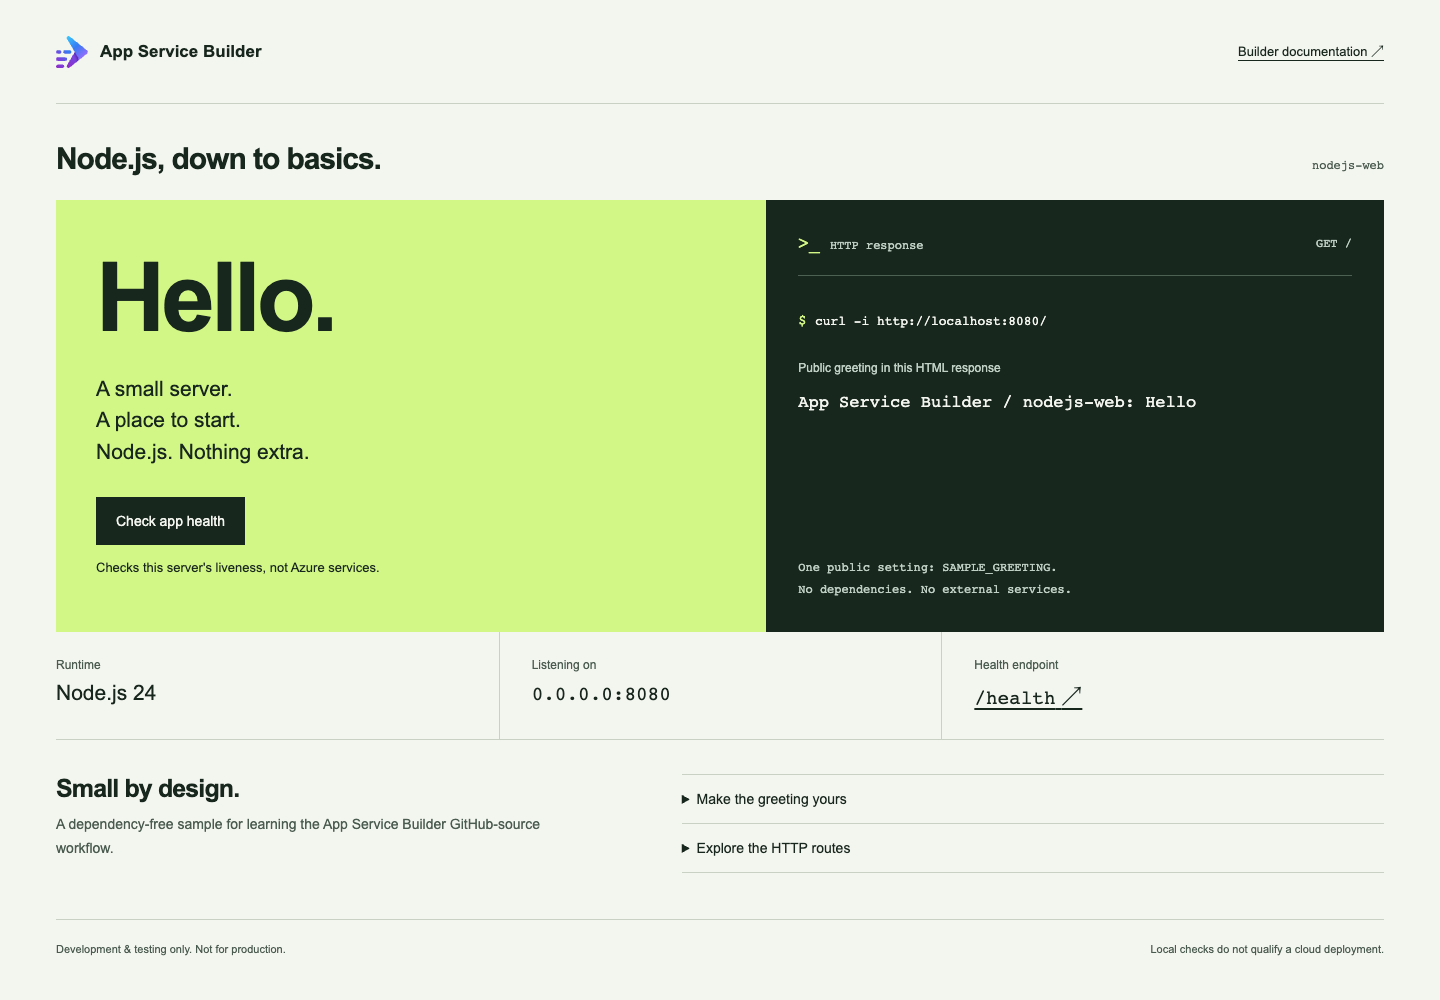
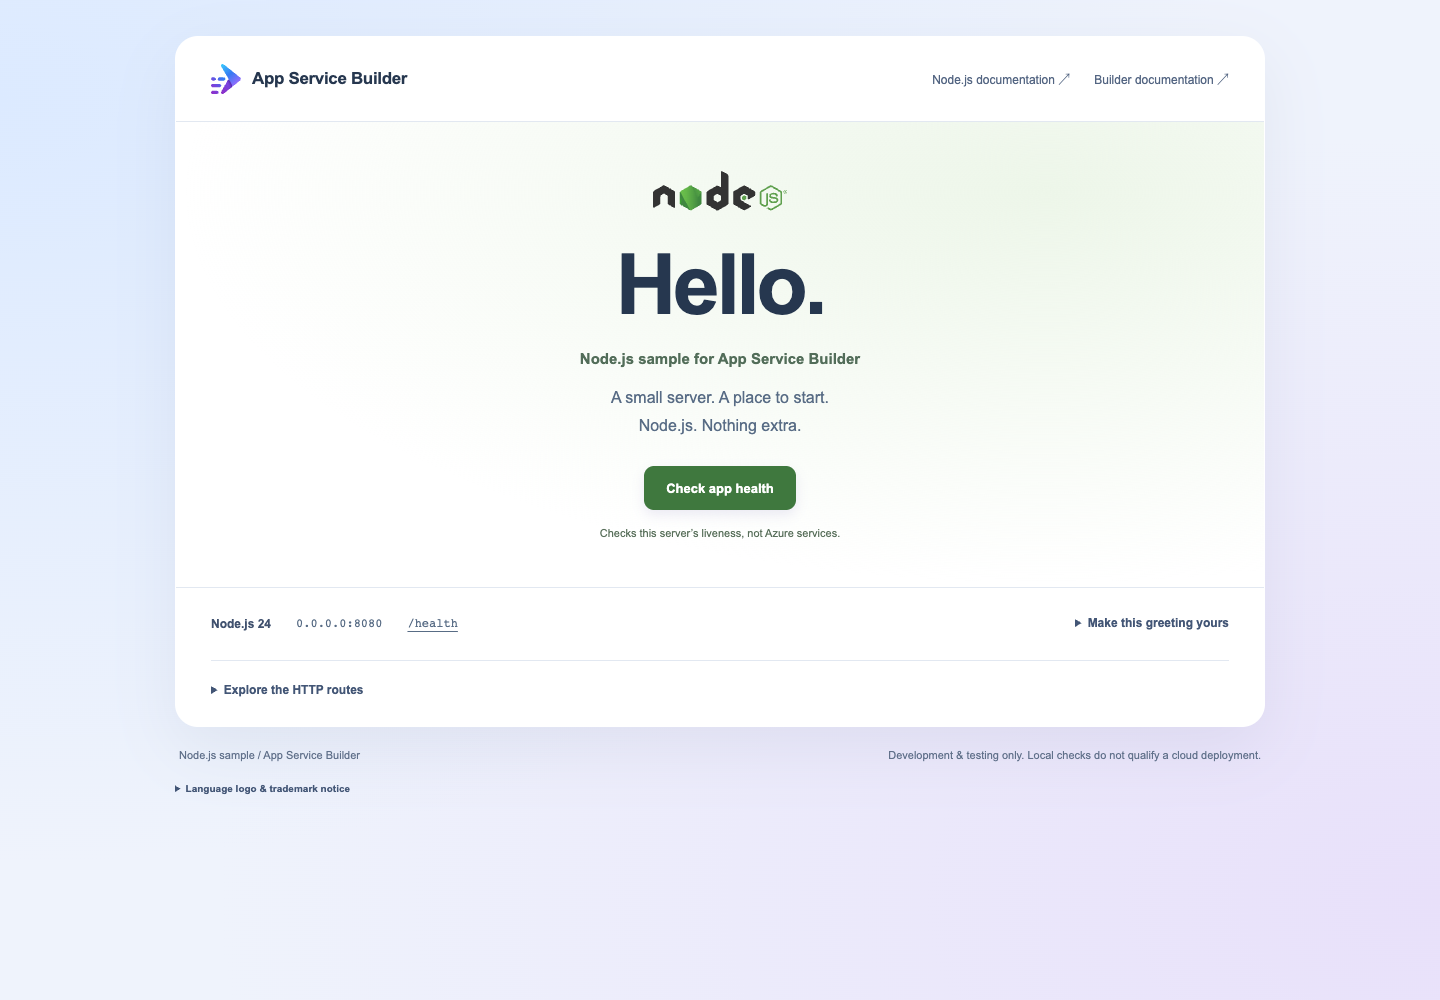
Refresh the language-specific Builder sample UI

diff --git a/README.md b/README.md
@@ -15,7 +15,7 @@ for your preview access; this sample does not promise availability in any region
 
 The screenshot shows the visual showcase served directly at `/`.
 
-![Node.js root page with a lime greeting panel, HTTP response specimen, and in-page health check](docs/images/sample.png)
+![Node.js root greeting with the official language logo, Builder context and inline health check](docs/images/sample.png)
 
 Real local rendering in Microsoft Edge, not evidence of an Azure deployment.
 **Check app health** shows `/health` status on the page; the machine-readable
@@ -62,10 +62,11 @@ curl -i http://localhost:8080/not-found
 ```
 
 Open `http://localhost:8080/` in a browser for the visual Node.js showcase.
-It displays the same public greeting with a responsive ink-and-lime layout,
+It displays the same public greeting with a responsive soft-green layout,
 runtime details, real endpoint links, and keyboard-accessible expandable
-instructions. It uses inline CSS, system fonts, and no JavaScript or external
-assets. The root serves HTML directly, without a redirect or content negotiation.
+instructions. It uses inline CSS, system fonts, inline logos, and a small
+inline script for the health check; no external assets or packages are needed.
+The root serves HTML directly, without a redirect or content negotiation.
 
 | Path | Status | Response body |
 | --- | --- | --- |
@@ -193,3 +194,7 @@ than a public issue. This sample is licensed under [MIT](LICENSE.md).
 - [Runtime requirements](https://builder.appservice.azure.com/docs/reference/runtimes/)
 
 The product mark uses the supplied App Service Builder asset in `assets/AppServiceBuilder.svg`. Its SVG is inlined in the root page to preserve the existing routes and security policy. Keep the inline copy and asset in sync when updating the logo.
+
+## Language identity
+
+The page uses the official Node.js logo and links separately to Node.js documentation and Builder documentation. The greeting remains simple; no editor or counter was added. Logo provenance and trademark notices are available on the page and the original asset is retained under `assets/`.
